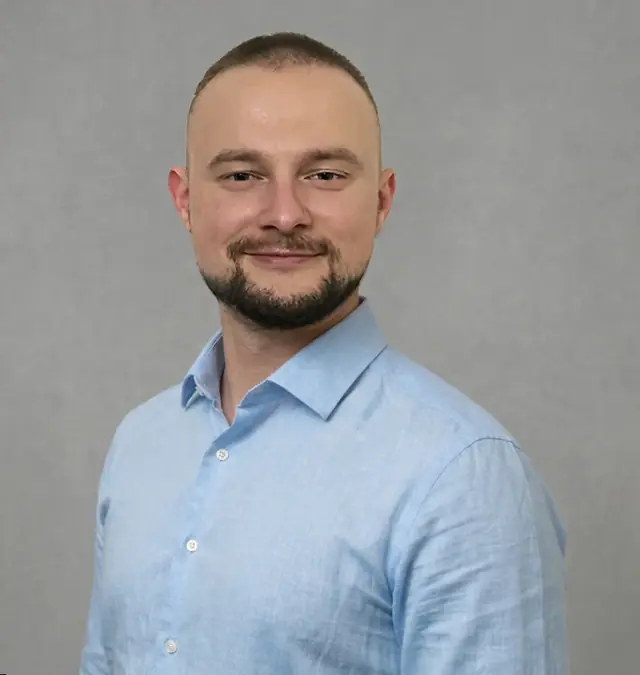
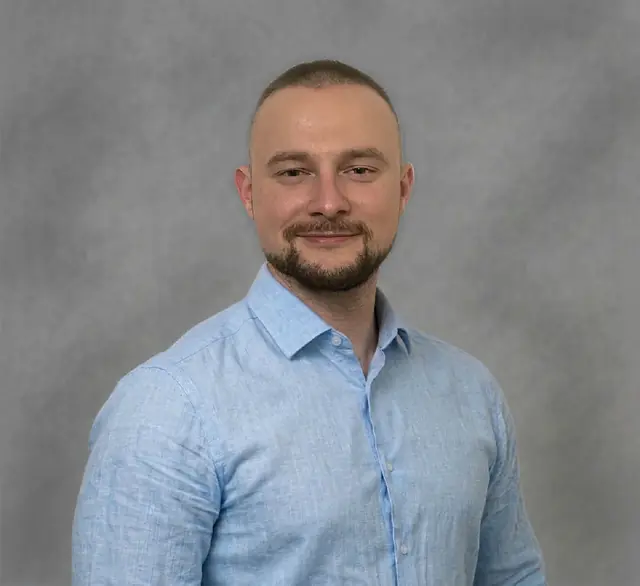
index hero: finalny portret z Zdjecie_HERO_KWyszynski (1440x1318 -> warianty 480-1000)
Regeneracja presentation-hero-*.webp ze źródła wgranego przez właściciela;
wymiary <img> 1000x1055 -> 1000x915 pod nowe proporcje.

diff --git a/index.html b/index.html
@@ -163,7 +163,7 @@
                     <img src="assets/images/presentation-hero-800.webp"
                         srcset="assets/images/presentation-hero-480.webp 480w, assets/images/presentation-hero-640.webp 640w, assets/images/presentation-hero-800.webp 800w, assets/images/presentation-hero-1000.webp 1000w"
                         sizes="(max-width: 1023px) 284px, 400px"
-                        alt="Karol Wyszyński – projektuję, buduję i wdrażam rozwiązania cyfrowe" width="1000" height="1055" fetchpriority="high" />
+                        alt="Karol Wyszyński – projektuję, buduję i wdrażam rozwiązania cyfrowe" width="1000" height="915" fetchpriority="high" />
                 </div>
                 <figcaption class="hero-image-caption">
                     <span class="caption-name">Karol Wyszyński</span>
